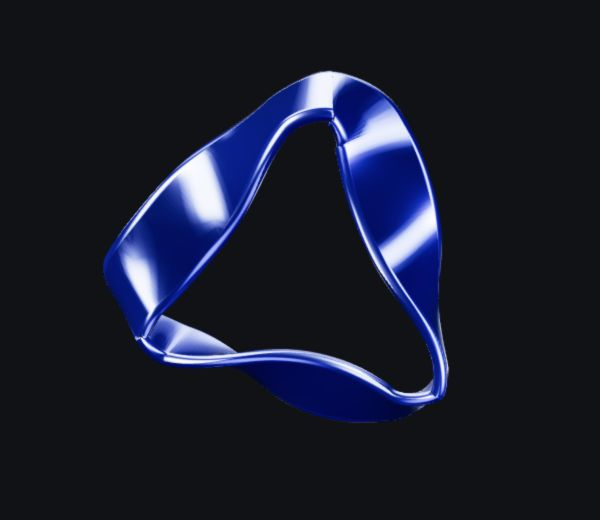
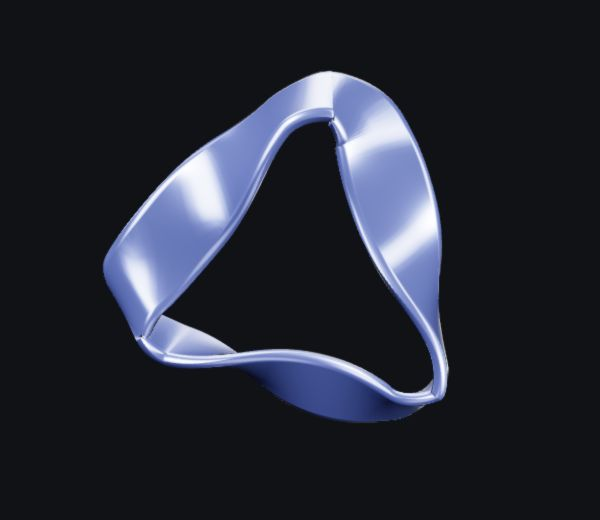
site: match Fold lighting and finish to the brand palette

Changed region(s): [[0.15, 0.1538, 0.75, 0.8308]]

diff --git a/site/hero.js b/site/hero.js
@@ -4,17 +4,17 @@ const TAU = Math.PI * 2;
 
 function studio(renderer) {
   const room = new THREE.Scene();
-  room.add(new THREE.Mesh(new THREE.BoxGeometry(18,18,18), new THREE.MeshBasicMaterial({color:0x141722,side:THREE.BackSide})));
+  room.add(new THREE.Mesh(new THREE.BoxGeometry(18,18,18), new THREE.MeshBasicMaterial({color:0x181818,side:THREE.BackSide})));
   function panel(w,h,x,y,z,r,g,b) {
     const material = new THREE.MeshBasicMaterial(); material.color.setRGB(r,g,b);
     const plane = new THREE.Mesh(new THREE.PlaneGeometry(w,h),material);
     plane.position.set(x,y,z); plane.lookAt(0,0,0); room.add(plane);
   }
-  panel(2.2,7,-4,2,4,7,8,11);
-  panel(1.1,8,4,1,2,3,4.5,10);
-  panel(6,2,-1,6,-2,5,6,10);
-  panel(3,3,0,-4,3,0.6,1,3);
-  panel(.35,7,1,2,-5,4,5,9);
+  panel(2.2,7,-4,2,4,8,8,8);
+  panel(1.1,8,4,1,2,6,6,6);
+  panel(6,2,-1,6,-2,6,6,6);
+  panel(3,3,0,-4,3,1,1,1);
+  panel(.35,7,1,2,-5,5,5,5);
   const generator = new THREE.PMREMGenerator(renderer);
   const texture = generator.fromScene(room,.025).texture;
   generator.dispose();
@@ -81,16 +81,17 @@ function initialize() {
   camera.position.set(0, 0, 8);
   const sculpture = new THREE.Group();
   scene.add(sculpture);
-  scene.add(new THREE.HemisphereLight(0xcad7ff, 0x11131c, 1.6));
-  const key = new THREE.DirectionalLight(0xcbd6ff, 3.3);
+  scene.add(new THREE.HemisphereLight(0xffffff, 0x141414, 1.6));
+  const key = new THREE.DirectionalLight(0xffffff, 3.3);
   key.position.set(-3, 4, 5);
   scene.add(key);
-  const fill = new THREE.DirectionalLight(0x718cff, 3);
+  const fill = new THREE.DirectionalLight(0xffffff, 3);
   fill.position.set(4, -1, 2);
   scene.add(fill);
 
+  const brandAccent = getComputedStyle(document.documentElement).getPropertyValue('--accent').trim();
   const material = new THREE.MeshPhysicalMaterial({
-    color: 0x8aa4ff, metalness: 1, roughness: .19,
+    color: brandAccent, metalness: .72, roughness: .23,
     clearcoat: 1, clearcoatRoughness: .15, envMapIntensity: 1.3,
     side: THREE.DoubleSide
   });

diff --git a/site/style.css b/site/style.css
@@ -60,9 +60,8 @@ h2 { font-size: clamp(32px, 3vw, 44px); line-height: 1.1; letter-spacing: -.05em
 .hero { overflow: hidden; }
 .hero-stage { position: relative; min-height: clamp(510px, 45vw, 640px); display: flex; align-items: center; isolation: isolate; }
 .hero-art { position: absolute; inset: 0 -4% 0 0; touch-action: pan-y; }
-.hero-art::before { content: ""; position: absolute; inset: 0; background: radial-gradient(ellipse 25% 46% at 73% 48%, #a173ff10, transparent 100%); }
+.hero-art::before { content: ""; position: absolute; inset: 0; opacity: .063; background: radial-gradient(ellipse 25% 46% at 73% 48%, var(--accent), transparent 100%); }
 .hero-art canvas { position: absolute; inset: 0; width: 100%; height: 100%; display: block; }
-.hero-art canvas, .art-fallback { filter: hue-rotate(35deg); }
 .art-fallback { position: absolute; right: -1%; top: 0; height: 100%; width: 51%; object-fit: contain; -webkit-mask-image: radial-gradient(ellipse at center, #000 56%, transparent 70%); mask-image: radial-gradient(ellipse at center, #000 56%, transparent 70%); }
 .hero-art.is-ready .art-fallback { visibility: hidden; }
 .hero-copy { position: relative; z-index: 1; width: 48%; padding-block: 70px; pointer-events: none; }
@@ -141,7 +140,7 @@ footer { padding: 32px 0 24px; }
   .nav-cta { margin-left: 24px; gap: 22px; font-size: 13px; padding: 9px 12px; }
   .hero-stage { display: flex; flex-direction: column; min-height: 0; }
   .hero-art { position: relative; inset: auto; width: 100%; height: clamp(290px, 64vw, 420px); }
-  .hero-art::before { background: radial-gradient(ellipse 48% 46% at 50% 50%, #a173ff10, transparent 100%); }
+  .hero-art::before { background: radial-gradient(ellipse 48% 46% at 50% 50%, var(--accent), transparent 100%); }
   .art-fallback { inset: 0; width: 100%; height: 100%; }
   .hero-copy { width: 100%; padding: 0 0 32px; }
   .hero-copy .eyebrow { display: none; }

diff --git a/site/index.html b/site/index.html
@@ -114,7 +114,7 @@
 <main id="main">
   <section class="hero" aria-labelledby="title">
     <div class="wrap hero-stage">
-      <div class="hero-art" aria-hidden="true"><img class="art-fallback" src="img/fold.jpg" width="600" height="520" alt="" fetchpriority="high"></div>
+      <div class="hero-art" aria-hidden="true"><img class="art-fallback" src="img/fold.jpg?v=@ASSET_VERSION@" width="600" height="520" alt="" fetchpriority="high"></div>
       <div class="hero-copy">
         <p class="eyebrow">AN EDITOR FOR LINUX &amp; macOS</p>
         <h1 id="title">Less weight.<br>More <span class="accent">flow.</span></h1>
